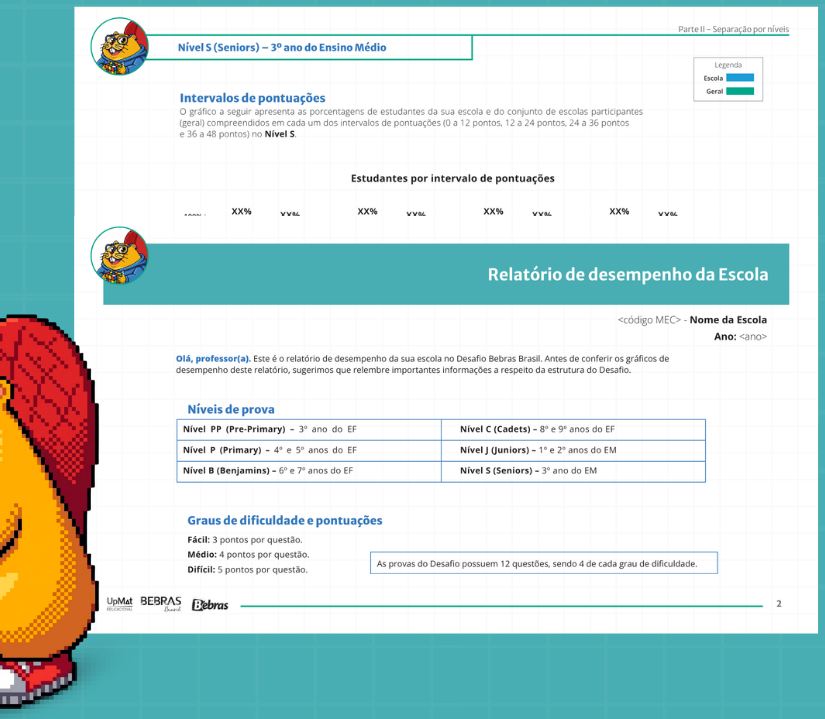
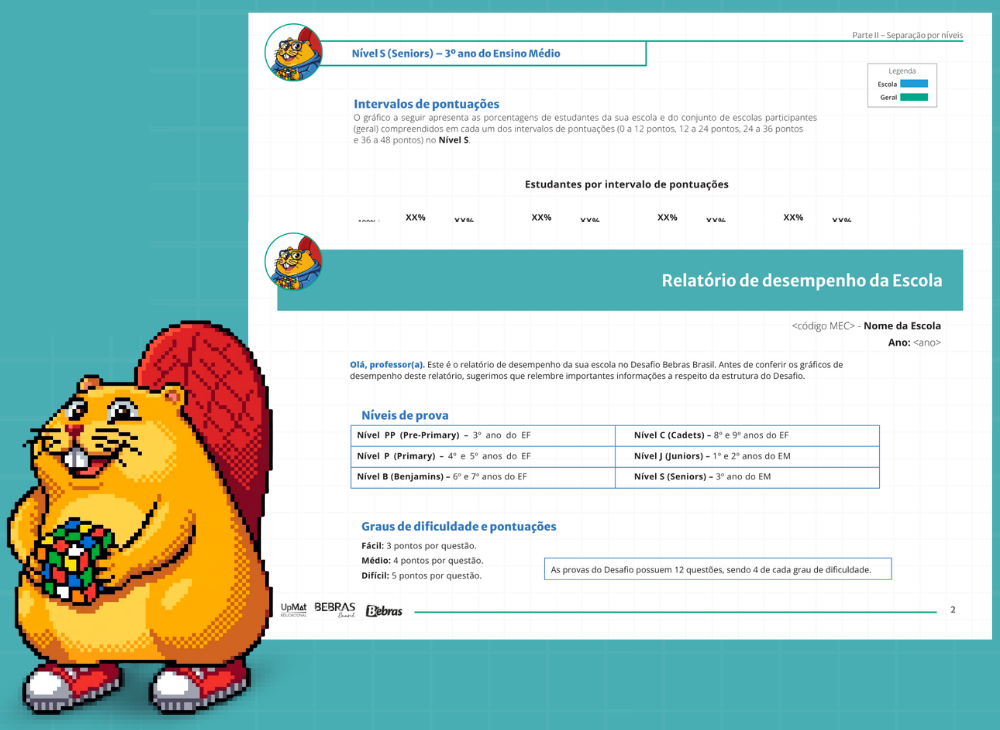
Combina mockup e mascote em uma única imagem no bloco 2
As tentativas de posicionar mascote e mockup como duas imagens
separadas via CSS (porcentagens de largura/sobreposição) nunca
reproduziam fielmente a composição original, mesmo após remedir
os pontos de referência repetidas vezes. Em vez de continuar
ajustando posições por tentativa, recorta os dois elementos juntos
da arte original como uma imagem só — a mesma abordagem já usada
com sucesso no bloco 1 (hero-illustration.png). Elimina de vez essa
classe de erro, sem depender de nenhum cálculo de proporção.

diff --git a/index.html b/index.html
@@ -173,18 +173,12 @@
     height: 100%;
   }
   .band-teal .col-media {
-    position: relative;
-    min-height: 320px;
+    display: flex;
+    align-items: center;
   }
   .classification-mockup {
-    width: 85%;
-    margin-left: auto;
-  }
-  .mascot-cube {
-    position: absolute;
-    left: 0;
-    bottom: 5%;
-    width: 30%;
+    width: 100%;
+    display: block;
   }
 
   /* ---------- section 3: o que mostra ---------- */
@@ -417,8 +411,7 @@
       <p class="tagline">A OLIMPÍADA TERMINA.<br>OS DADOS CONTINUAM<br>APOIANDO A APRENDIZAGEM.</p>
     </div>
     <div class="col-media">
-      <img class="classification-mockup" src="assets/classification-mockup.png" alt="Prints do Relatório de desempenho da escola mostrando níveis de prova e graus de dificuldade">
-      <img class="mascot-cube" src="assets/mascot-cube.png" alt="Mascote do Bebras segurando um cubo mágico">
+      <img class="classification-mockup" src="assets/classification-mockup.png" alt="Mascote do Bebras segurando um cubo mágico ao lado de prints do Relatório de desempenho da escola">
     </div>
   </div>
 </section>
